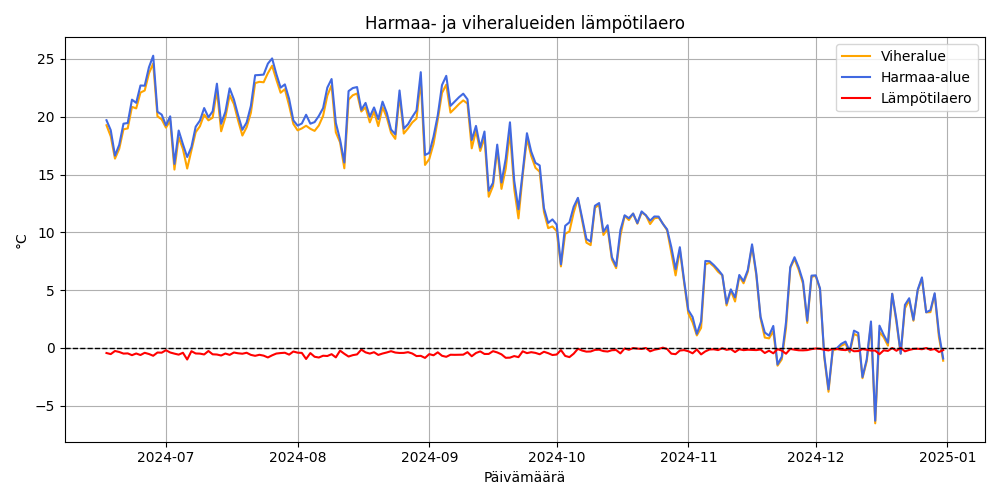
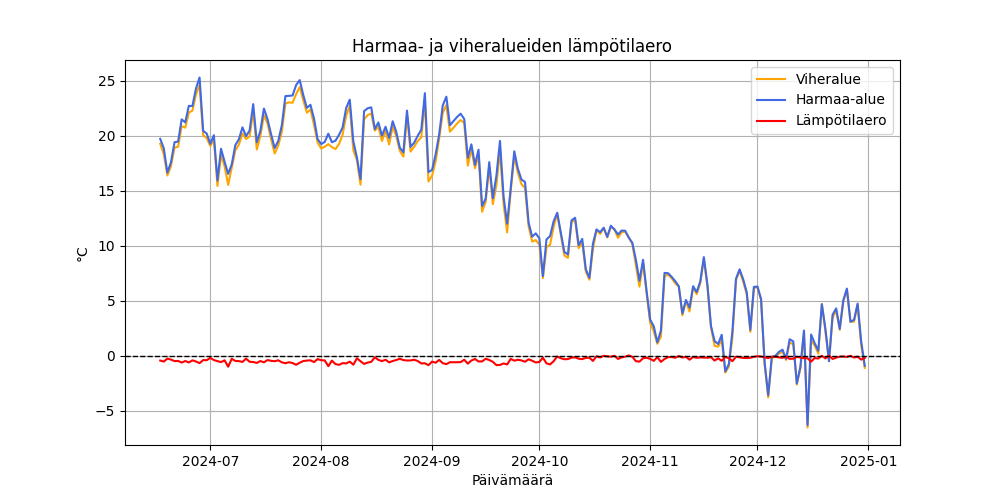
Extract plotting to functions

diff --git a/server/src/analysis/vallila/sun_shade_temp.py b/server/src/analysis/vallila/sun_shade_temp.py
@@ -1,19 +1,23 @@
 import asyncio
 
 import matplotlib.pyplot as plt
+from src.utils.analysis_utils import (
+    daily_avg_temp,
+    plot_daily_temp_avg,
+    plot_monthly_temp_diff,
+)
 from src.utils.filter_tag import filter_location_with_tag
 from src.utils.save_graph import save_graph
-from src.utils.utils import filter_daytime_data
 
 
 def avg_daily_temps_sun_shade():
     dfA = filter_location_with_tag("Vallila", "aurinko")
-    avg_sun = get_avg_temp(dfA)
+    avg_sun = daily_avg_temp(dfA)
 
     dfV = filter_location_with_tag("Vallila", "varjo")
-    avg_shade = get_avg_temp(dfV)
+    avg_shade = daily_avg_temp(dfV)
 
-    plt1 = plot_data(
+    plt1 = plot_daily_temp_avg(
         avg_sun,
         avg_shade,
         "Mäkelänkadun lämpötila auringossa ja varjossa",
@@ -21,57 +25,17 @@ def avg_daily_temps_sun_shade():
         "Varjo",
         "Päivämäärä",
         "°C",
+        "orange",
+        "royalblue",
     )
-    save_graph("Mäkelänkatu_sun_shade_temp_diff", plt1, folder="vallila")
-    # plt1.show()
+    save_graph("vallila_sun_shade_temp_diff", plt1, folder="vallila")
 
-    plt2 = plot_diff_bar(dfA, dfV, "Mäkelänkadun lämpötilaero auringossa ja varjossa")
-    save_graph("Mäkelänkatu_monthly_monthly_temp_diff", plt2, folder="vallila")
-    # plt2.show()
+    plt2 = plot_monthly_temp_diff(
+        dfA, dfV, "Mäkelänkadun lämpötilaero auringossa ja varjossa", ylim=(0, 1)
+    )
+    save_graph("vallila_sun_shade_monthly_temp_diff", plt2, folder="vallila")
 
     return
-
-
-def get_avg_temp(df):
-    df = filter_daytime_data(df)
-    df["date"] = df["time"].dt.date
-
-    return df.groupby("date")["temperature"].mean()
-
-
-def plot_data(df1, df2, title, df1_label, df2_label, xlabel, ylabel):
-    df1.plot(kind="line", label=df1_label, color="orange")
-    df2.plot(kind="line", label=df2_label, color="royalblue")
-
-    avg_diff = df1 - df2
-    avg_diff.plot(kind="line", label="Lämpötilaero", color="red", figsize=(10, 5))
-
-    plt.title(title)
-    plt.axhline(y=0, color="black", linestyle="--", linewidth=1)
-    plt.xlabel(xlabel)
-    plt.ylabel(ylabel)
-    plt.legend()
-    plt.grid(True)
-    plt.tight_layout()
-    return plt
-
-
-def plot_diff_bar(df1, df2, title):
-    df1["month"] = df1["time"].dt.month
-    df2["month"] = df2["time"].dt.month
-
-    mean1 = df1.groupby("month")["temperature"].mean()
-    mean2 = df2.groupby("month")["temperature"].mean()
-
-    diff = mean1 - mean2
-
-    diff.plot(kind="bar", ylim=(-1, 1), figsize=(10, 5), zorder=3)
-    plt.grid(True, zorder=0)
-    plt.title(title)
-    plt.xlabel("Kuukausi")
-    plt.xticks(rotation=0)
-    plt.ylabel("Erotus °C")
-    return plt
 
 
 if __name__ == "__main__":

diff --git a/server/src/analysis/vallila/gray_greenspace_temp.py b/server/src/analysis/vallila/gray_greenspace_temp.py
@@ -1,17 +1,21 @@
 import matplotlib.pyplot as plt
+from src.utils.analysis_utils import (
+    daily_avg_temp,
+    plot_daily_temp_avg,
+    plot_monthly_temp_diff,
+)
 from src.utils.filter_tag import filter_location_with_tag
 from src.utils.save_graph import save_graph
-from src.utils.utils import filter_daytime_data
 
 
 def area_daily_temp_diff():
     dfGreen = filter_location_with_tag("Vallila", "viheralue")
     dfGray = filter_location_with_tag("Vallila", "harmaa-alue")
 
-    avg_green = get_avg_temp(dfGreen)
-    avg_gray = get_avg_temp(dfGray)
+    avg_green = daily_avg_temp(dfGreen)
+    avg_gray = daily_avg_temp(dfGray)
 
-    plt1 = plot_data(
+    plt1 = plot_daily_temp_avg(
         avg_green,
         avg_gray,
         "Harmaa- ja viheralueiden lämpötilaero",
@@ -19,55 +23,17 @@ def area_daily_temp_diff():
         "Harmaa-alue",
         "Päivämäärä",
         "°C",
+        line1_color="orange",
+        line2_color="royalblue",
     )
-    # plt1.show()
     save_graph("green and gray space avg temp diff", plt1, folder="vallila")
 
-    plt2 = plot_area_diff_bar(dfGreen, dfGray, "Harmaa- ja viheralueiden lämpötilaero")
+    plt2 = plot_monthly_temp_diff(
+        dfGreen, dfGray, "Harmaa- ja viheralueiden lämpötilaero", ylim=(0, -1)
+    )
     save_graph("green and grayspace avg monthly temp diff", plt2, folder="vallila")
-    # plt2.show()
 
     return
-
-
-def plot_data(df1, df2, title, df1_label, df2_label, xlabel, ylabel):
-    df1.plot(kind="line", label=df1_label, color="orange")
-    df2.plot(kind="line", label=df2_label, color="royalblue")
-
-    avg_diff = df1 - df2
-    avg_diff.plot(kind="line", label="Lämpötilaero", color="red", figsize=(10, 5))
-
-    plt.title(title)
-    plt.axhline(y=0, color="black", linestyle="--", linewidth=1)
-    plt.xlabel(xlabel)
-    plt.ylabel(ylabel)
-    plt.legend()
-    plt.grid(True)
-    plt.tight_layout()
-    return plt
-
-
-def get_avg_temp(df):
-    df = filter_daytime_data(df)
-    df["date"] = df["time"].dt.date
-
-    return df.groupby("date")["temperature"].mean()
-
-
-def plot_area_diff_bar(df1, df2, title):
-    df1["month"] = df1["time"].dt.month
-    df2["month"] = df2["time"].dt.month
-
-    mean1 = df1.groupby("month")["temperature"].mean()
-    mean2 = df2.groupby("month")["temperature"].mean()
-
-    diff = mean1 - mean2
-
-    diff.plot(kind="bar", ylim=(0, -1), figsize=(10, 5))
-    plt.title(title)
-    plt.xlabel("Kuukausi")
-    plt.ylabel("Erotus °C")
-    return plt
 
 
 if __name__ == "__main__":

diff --git a/server/src/analysis/all_locations/continental_coastal_temp.py b/server/src/analysis/all_locations/continental_coastal_temp.py
@@ -1,0 +1,76 @@
+import asyncio
+
+import matplotlib.pyplot as plt
+from src.utils.analysis_utils import daily_avg_temp
+from src.utils.filter_tag import filter_df_by_tag
+from src.utils.get_data_util import get_all_locations
+from src.utils.save_graph import save_graph
+
+
+def main():
+    df = get_all_locations()
+    df_meri = filter_df_by_tag(df, "meri")
+    avg_meri = daily_avg_temp(df_meri)
+
+    df_manner = filter_df_by_tag(df, "manner")
+    avg_manner = daily_avg_temp(df_manner)
+
+    plt = plot_data(
+        avg_manner,
+        avg_meri,
+        "Meri- ja mannerilmasto",
+        "Manner",
+        "Meri",
+        "Päivämäärä",
+        "°C",
+    )
+    save_graph("continental coastal temp diff", plt, "all_locations")
+    plt.clf()
+
+    plt2 = plot_diff_bar(df_manner, df_meri)
+    save_graph("continental coastal monthly temp diff", plt2, "all_locations")
+    plt2.clf()
+
+    return
+
+
+def plot_data(df1, df2, title, df1_label, df2_label, xlabel, ylabel):
+    df1.plot(kind="line", label=df1_label, color="orange")
+    df2.plot(kind="line", label=df2_label, color="royalblue")
+
+    avg_diff = df1 - df2
+    avg_diff.plot(kind="line", label="Lämpötilaero", color="red", figsize=(10, 5))
+
+    plt.title(title)
+    plt.axhline(y=0, color="black", linestyle="--", linewidth=1)
+    plt.xlabel(xlabel)
+    plt.ylabel(ylabel)
+    plt.legend()
+    plt.grid(True)
+    plt.tight_layout()
+
+    return plt
+
+
+def plot_diff_bar(df1, df2):
+    df1["month"] = df1["time"].dt.month
+    df2["month"] = df2["time"].dt.month
+
+    mean1 = df1.groupby("month")["temperature"].mean()
+    mean2 = df2.groupby("month")["temperature"].mean()
+
+    diff = mean1 - mean2
+
+    diff.plot(kind="bar", ylim=(-1, 1), figsize=(10, 5), zorder=3)
+    plt.grid(True, zorder=0)
+    plt.title("Meri- ja mannerilmasto lämpötilaero")
+    plt.xlabel("Kuukausi")
+    plt.xticks(rotation=0)
+    plt.legend()
+    plt.ylabel("°C")
+
+    return plt
+
+
+if __name__ == "__main__":
+    main()

diff --git a/server/src/utils/analysis_utils.py b/server/src/utils/analysis_utils.py
@@ -1,0 +1,57 @@
+import matplotlib.pyplot as plt
+from src.utils.utils import filter_daytime_data
+
+
+def daily_avg_temp(df):
+    df = filter_daytime_data(df)
+    df["date"] = df["time"].dt.date
+
+    return df.groupby("date")["temperature"].mean()
+
+
+def plot_daily_temp_avg(
+    df1,
+    df2,
+    title,
+    df1_label,
+    df2_label,
+    xlabel,
+    ylabel,
+    line1_color=None,
+    line2_color=None,
+):
+    plt.clf()
+
+    df1.plot(kind="line", label=df1_label, color=line1_color)
+    df2.plot(kind="line", label=df2_label, color=line2_color)
+
+    avg_diff = df1 - df2
+    avg_diff.plot(kind="line", label="Lämpötilaero", color="red", figsize=(10, 5))
+
+    plt.title(title)
+    plt.axhline(y=0, color="black", linestyle="--", linewidth=1)
+    plt.xlabel(xlabel)
+    plt.ylabel(ylabel)
+    plt.legend()
+    plt.grid(True)
+    return plt
+
+
+def plot_monthly_temp_diff(df1, df2, title, ylim=None):
+    plt.clf()
+
+    df1["month"] = df1["time"].dt.month
+    df2["month"] = df2["time"].dt.month
+
+    mean1 = df1.groupby("month")["temperature"].mean()
+    mean2 = df2.groupby("month")["temperature"].mean()
+
+    diff = mean1 - mean2
+
+    diff.plot(kind="bar", ylim=ylim, figsize=(10, 5), zorder=3)
+    plt.grid(True, zorder=0)
+    plt.title(title)
+    plt.legend()
+    plt.xlabel("Kuukausi")
+    plt.ylabel("Ero °C")
+    return plt
